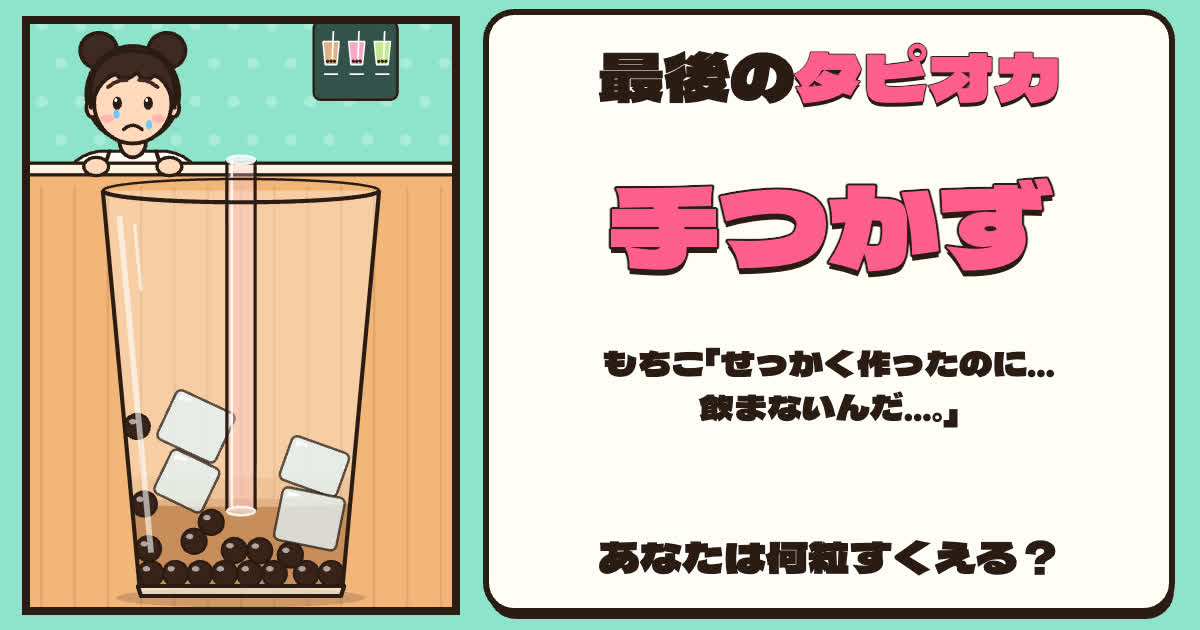
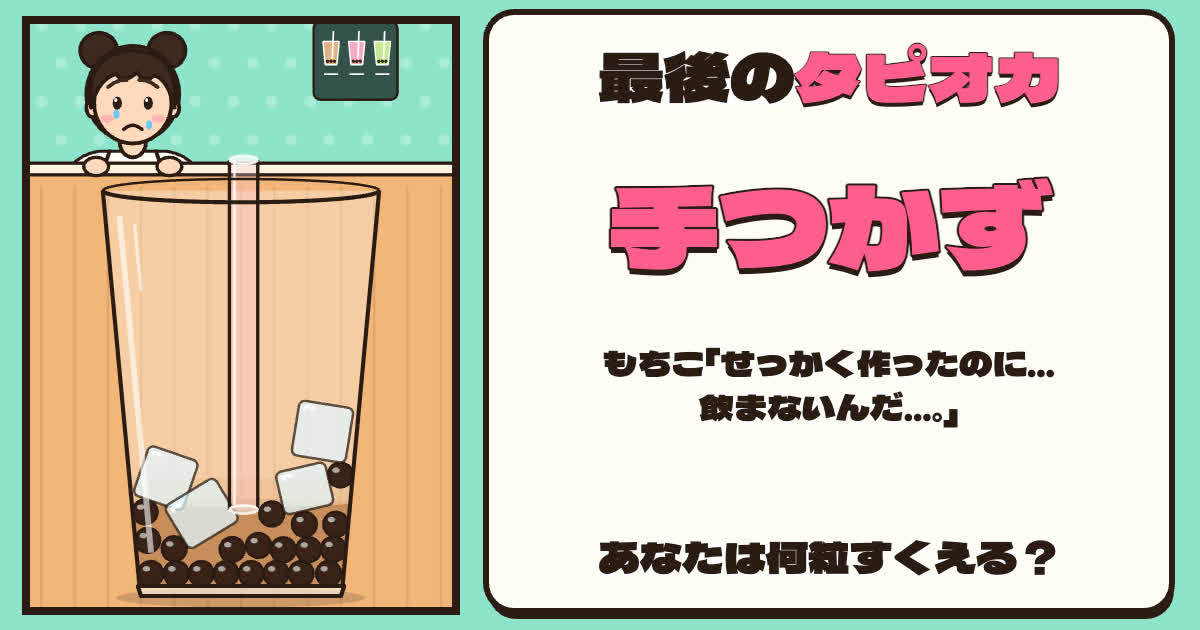
最後のタピオカ: 20 pearls, tea shine follows the level

Changed region(s): [[0.0925, 0.2413, 0.3083, 0.9349]]

diff --git a/mini-games/pearl/index.html b/mini-games/pearl/index.html
@@ -144,9 +144,9 @@ const PAIR_S=.02, PAIR_TOUCH=1, PAIR_GAP=2;
 const GRIP_SPEED=120, SLIP_SPEED=400;
 const ZUGOGO_S=1.5, SNIPER_TEA=.07, MOST=.7, HALF=.35;
 // Every cup has the same number of pearls so scores compare.
-const PEARLS=16, ROUND_S=6;
+const PEARLS=20, ROUND_S=6;
 // Score: 100 per pearl. Only a full clear adds 100 per second left on the clock and 500 times the tea left,
-// so a clear (1,600 or more) always beats a partial cup (1,500 at most).
+// so a clear (2,000 or more) always beats a partial cup (1,900 at most).
 const PEARL_PTS=100, TIME_PTS=100, TEA_PTS=500;
 const clampN=(n,a,b)=>Math.max(a,Math.min(b,n));
 function wallX(y,side){const k=clampN((y-CUP.rimY)/(CUP.floorY-CUP.rimY),0,1);return side<0?CUP.rimL+(CUP.floorL-CUP.rimL)*k:CUP.rimR+(CUP.floorR-CUP.rimR)*k;}
@@ -335,7 +335,7 @@ const IDLE_LINES = [
   {"id":"idle1","text":"あれ？どうしたの？"}
 ];
 // What ?card=<id> leaves in the cup: pearls caught and tea left.
-const CARD_STATE = {refill:{n:13,tea:0},sniper:{n:16,tea:.45},kanin:{n:16,tea:0},most:{n:13,tea:0},half:{n:8,tea:0},few:{n:3,tea:.1},teaonly:{n:0,tea:0},zugogo:{n:6,tea:0},nothing:{n:0,tea:1}};
+const CARD_STATE = {refill:{n:16,tea:0},sniper:{n:20,tea:.45},kanin:{n:20,tea:0},most:{n:16,tea:0},half:{n:10,tea:0},few:{n:4,tea:.1},teaonly:{n:0,tea:0},zugogo:{n:8,tea:0},nothing:{n:0,tea:1}};
 const clamp = clampN;
 const rand = (a,b) => a + Math.random()*(b-a);
 const wait = ms => new Promise(resolve => setTimeout(resolve,ms));
@@ -374,7 +374,7 @@ function measureLayout() {
   let resultTop=bottom;
   for(const e of ENDINGS) {
     el('ending-name').textContent=e.name;el('verdict').textContent=e.verdict;el('hint').textContent=e.hint;
-    el('best').textContent='16粒 / 16粒 · 新記録！ 自己ベスト 2,700点';
+    el('best').textContent='20粒 / 20粒 · 新記録！ 自己ベスト 3,100点';
     resultTop=Math.min(resultTop,el('result').getBoundingClientRect().top);
   }
   copy.remove();
@@ -783,14 +783,14 @@ function drawCupBack(c) {
   ellipse(c,200,CUP.floorY+14,150,12,'rgba(43,27,20,.18)',false);
   cupPath(c);c.fillStyle='rgba(255,255,255,.32)';c.fill();
   c.strokeStyle='rgba(43,27,20,.35)';c.lineWidth=3;c.beginPath();c.ellipse(200,CUP.rimY,(CUP.rimR-CUP.rimL)/2,14,0,Math.PI,Math.PI*2);c.stroke();
-  // A light film of tea on the walls where it used to be.
-  c.save();cupPath(c);c.clip();c.fillStyle='rgba(201,141,92,.16)';c.fillRect(0,CUP.floorY-TEA_H-30,400,30);c.restore();
   c.restore();
 }
 function drawTea(c,w) {
   if(w.tea<=0)return;
   const y=teaSurface(w);
   c.save();cupPath(c);c.clip();
+  // A light film of tea on the walls just above the surface; it drops with the tea and fades out as it runs dry.
+  c.fillStyle=`rgba(201,141,92,${.16*Math.min(1,w.tea*5)})`;c.fillRect(0,y-30,400,30);
   c.fillStyle=TEA;c.fillRect(0,y,400,CUP.floorY-y+4);
   ellipse(c,200,y,(wallX(y,1)-wallX(y,-1))/2,5,TEA_TOP,false);
   c.restore();
